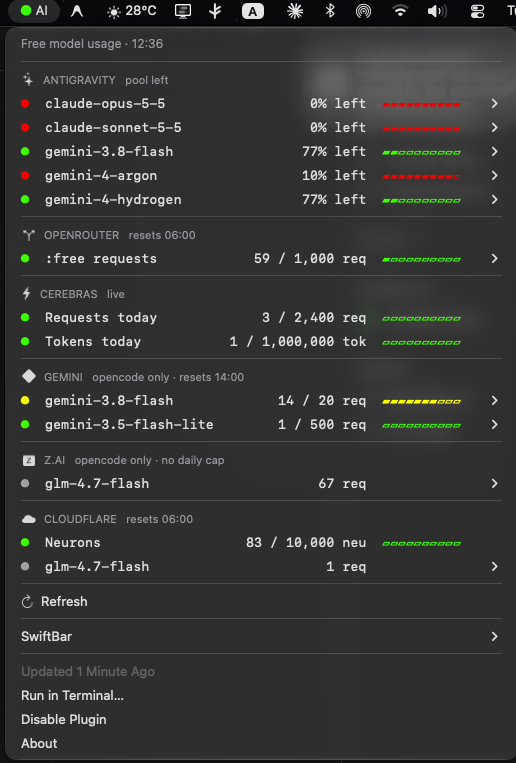
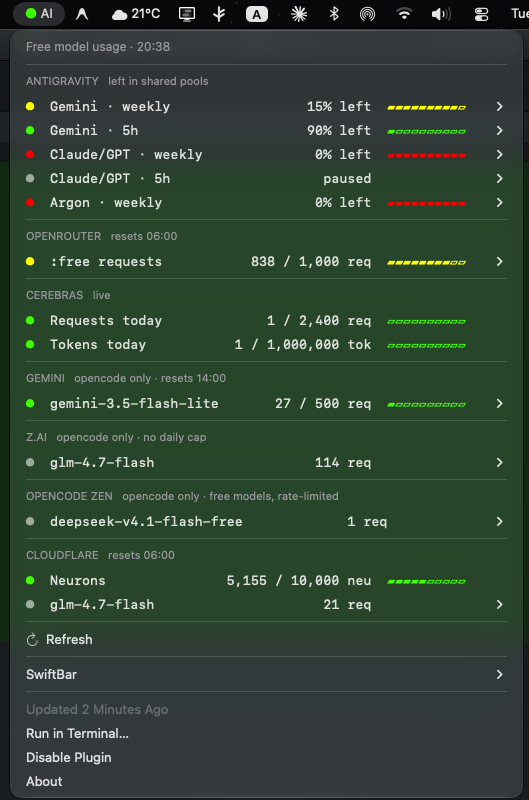
Add OpenCode Zen section for free models like DeepSeek

diff --git a/README.md b/README.md
@@ -2,7 +2,7 @@
 
 **See every free AI model quota you have, in one place, right in your Mac menu bar.**
 
-Free tiers are generous when you combine them (OpenRouter, Cerebras, Gemini, Z.ai, Cloudflare Workers AI), but every provider counts differently and hides its limits somewhere else. `llm-usage` pulls them together so you know which model still has room before your coding agent hits a 429.
+Free tiers are generous when you combine them (OpenRouter, Cerebras, Gemini, Z.ai, OpenCode Zen, Cloudflare Workers AI), but every provider counts differently and hides its limits somewhere else. `llm-usage` pulls them together so you know which model still has room before your coding agent hits a 429.
 
 ![Menu bar](docs/menu-bar.png)
 
@@ -10,7 +10,7 @@ Free tiers are generous when you combine them (OpenRouter, Cerebras, Gemini, Z.a
 
 - 🟢🟡🔴 One dot in the menu bar for your overall usage; one colored row per model inside
 - Live numbers straight from providers that expose them (OpenRouter, Cerebras, Cloudflare)
-- Local counts from [opencode](https://opencode.ai) history for providers that don't (Gemini, Z.ai)
+- Local counts from [opencode](https://opencode.ai) history for providers that don't (Gemini, Z.ai, OpenCode Zen)
 - Reset times shown in your own time zone
 - Click any provider to open its dashboard
 - Same view in the terminal: `llm-usage`
@@ -25,6 +25,7 @@ Free tiers are generous when you combine them (OpenRouter, Cerebras, Gemini, Z.a
 | Cerebras | live rate-limit headers | requests and tokens used today |
 | Google Gemini | opencode history | requests per model vs the free-tier daily limit |
 | Z.ai | opencode history | requests and tokens per model |
+| OpenCode Zen | opencode history | requests and tokens per free model (e.g. DeepSeek V4.1 Flash) |
 | Cloudflare Workers AI | live GraphQL + opencode history | neurons used of 10,000/day, requests per model |
 | Antigravity | local Antigravity.app hub (must be running) | % left in every 5-hour and weekly pool, reset times |
 
@@ -59,7 +60,7 @@ Add whichever you have to `~/.zshrc`. Each key is only sent to its own provider.
 ## Notes
 
 - The Cerebras check sends one 1-token request per refresh (about 96 a day at the default interval).
-- Gemini and Z.ai have no usage API, so only requests made through opencode are counted. Your AI Studio dashboard stays the source of truth.
+- Gemini, Z.ai and OpenCode Zen have no usage API, so only requests made through opencode are counted. Your AI Studio dashboard stays the source of truth.
 - Status colors: green under 70% used, yellow 70–90%, red 90% and above.
 
 ## Contributing
